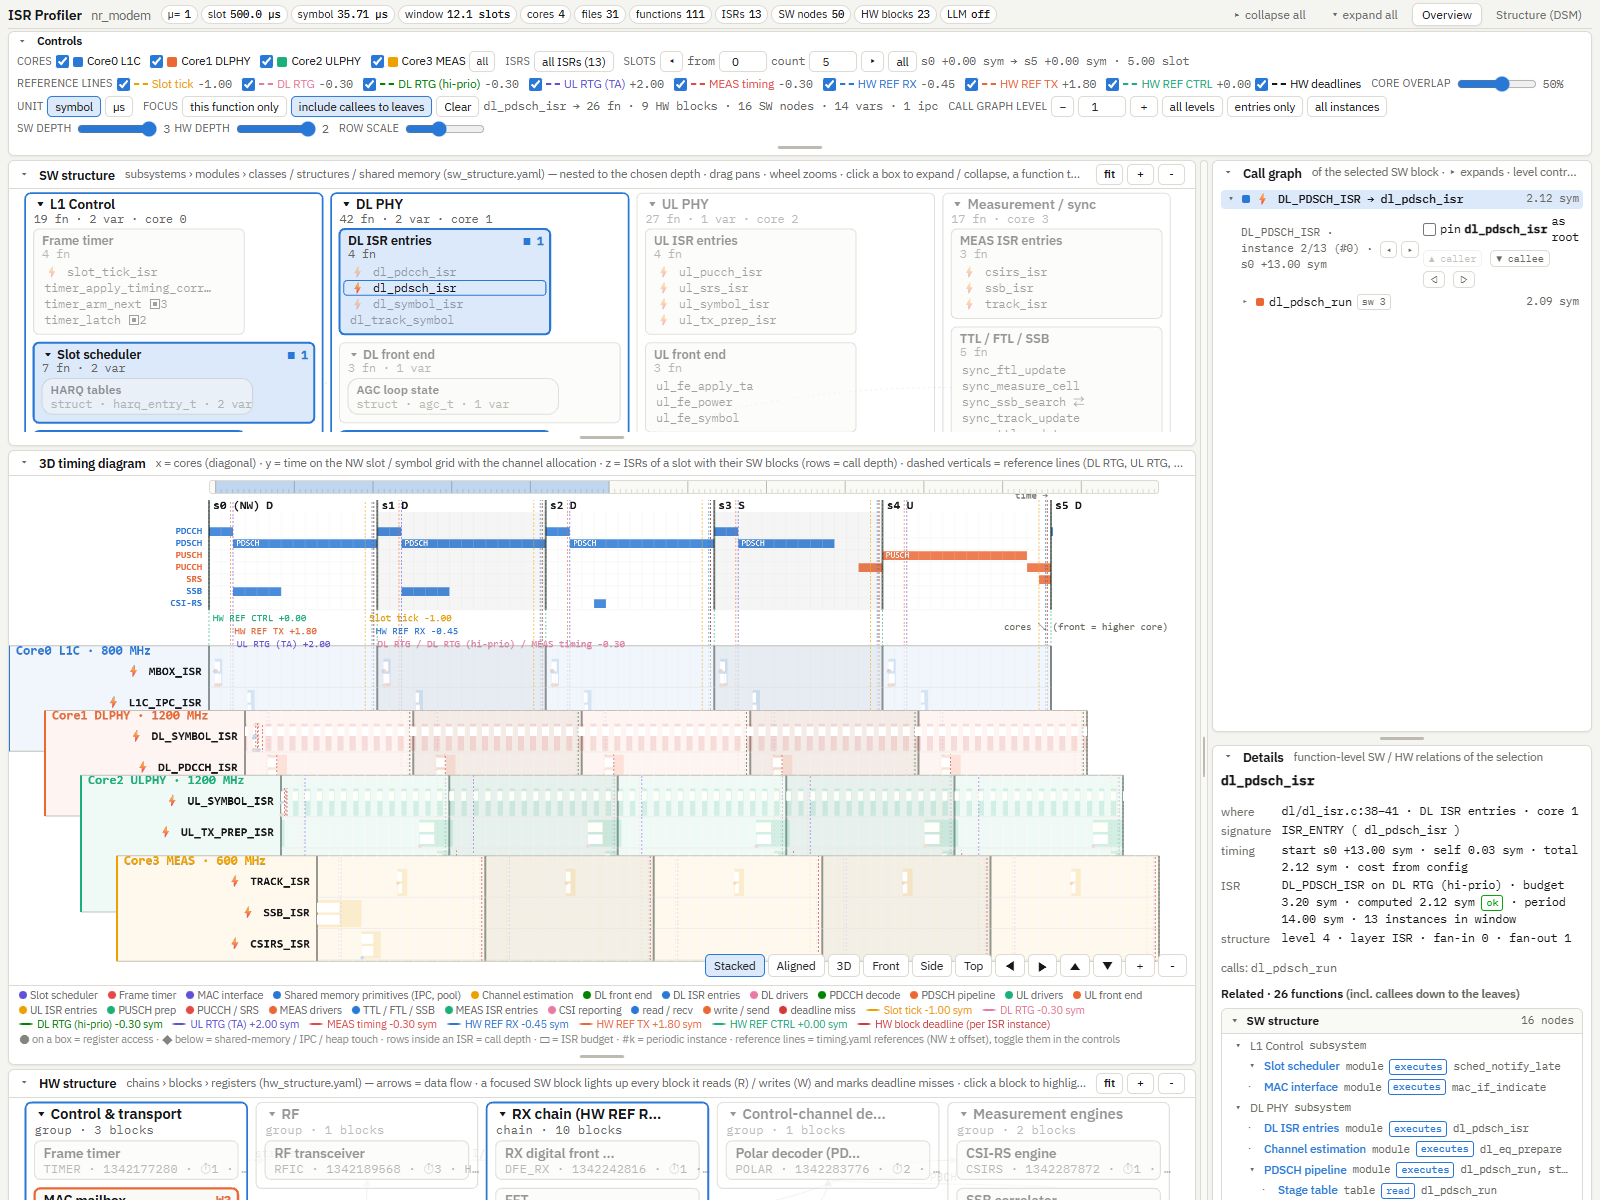
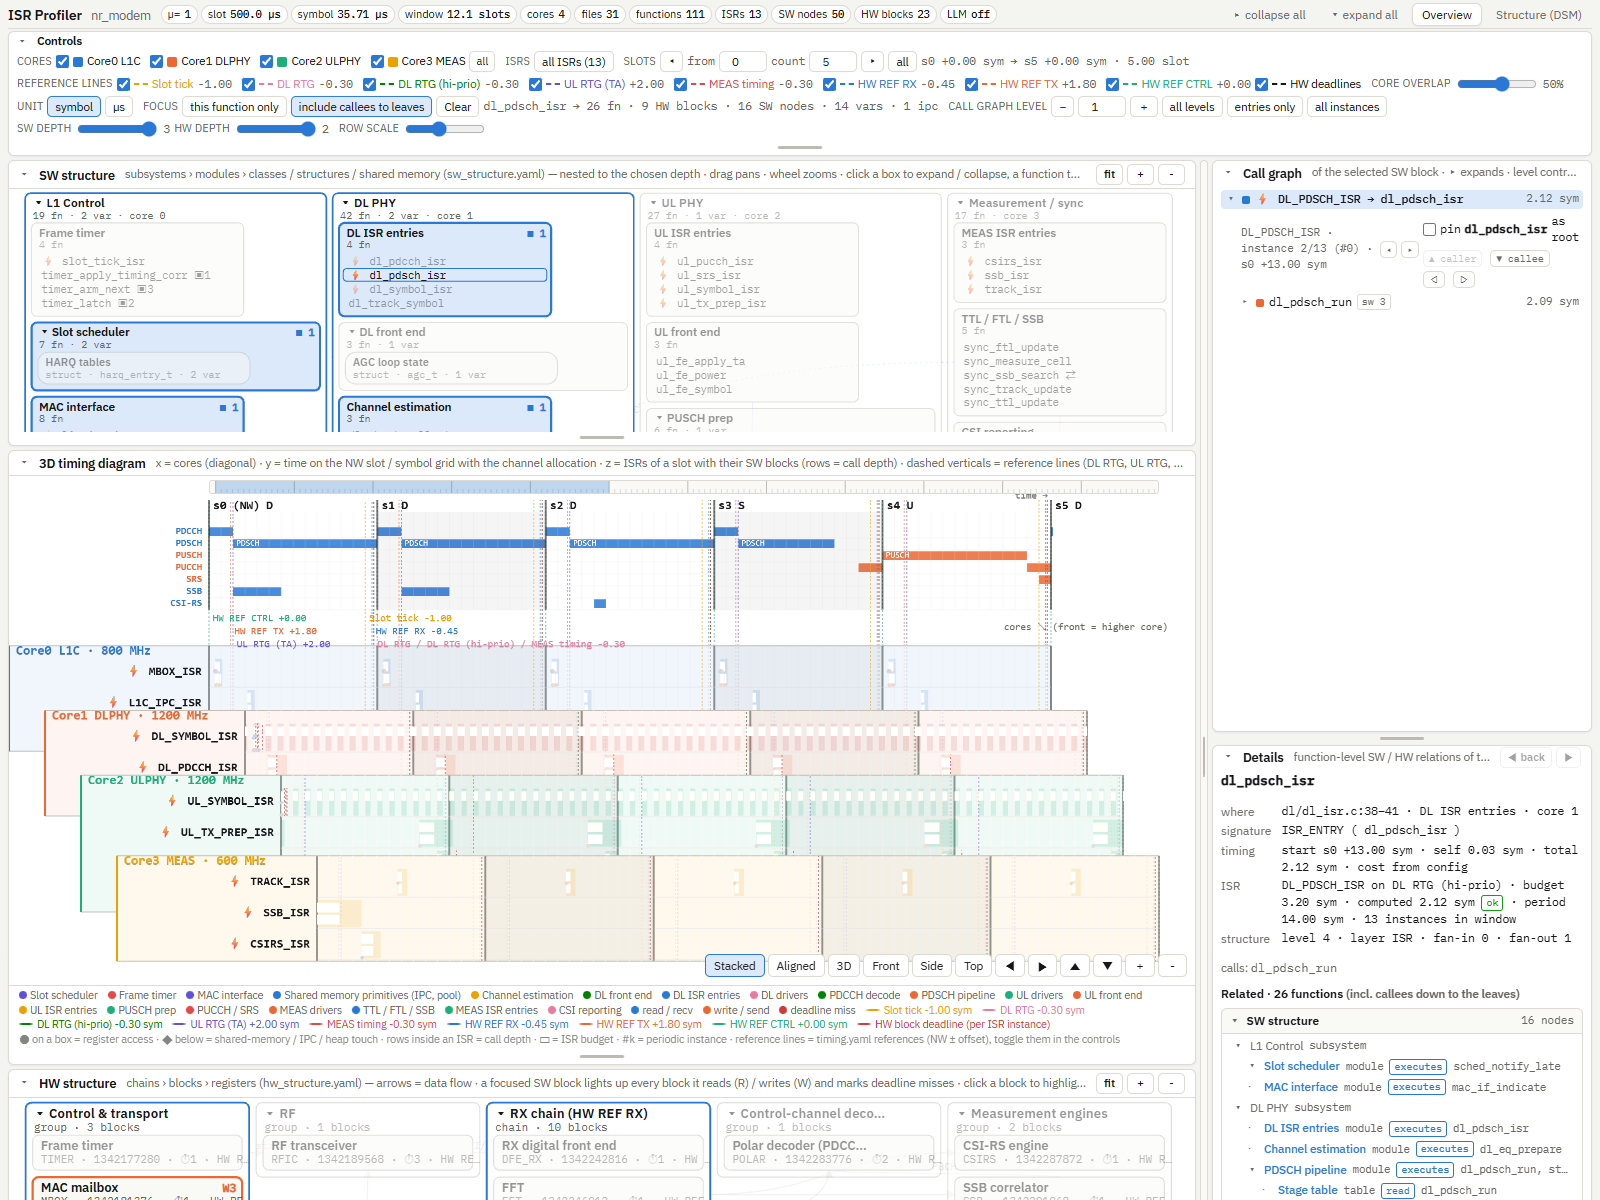
SW / HW structure diagrams: type scale matched to the timing diagram, tighter boxes

diff --git a/isrprof/templates/parts/60_diagram.js b/isrprof/templates/parts/60_diagram.js
@@ -74,18 +74,18 @@ function panZoom(host, svg, w, h) {
 function renderNested(host, spec) {
   // spec: {byId, roots, anc, depth, open, closed, cols, itemsOf, itemsDefault, kindOf, labelOf, subOf, edges:[{from,to,kind,label}], leafW, onToggle, onSelect, onItem, tipNode, tipItem, extraClass}
   const W = Math.max(host.clientWidth || 900, 320);
-  const opt = { depth: spec.depth, open: spec.open, closed: spec.closed, pageW: W - 8, cols: spec.cols || 4, leafW: spec.leafW || 190, minColW: spec.minColW || 150, leafH: 34, pad: 8, header: 26, itemsOf: spec.itemsOf, itemsDefault: spec.itemsDefault, itemH: 15 };
+  const opt = { depth: spec.depth, open: spec.open, closed: spec.closed, pageW: W - 8, cols: spec.cols || 4, leafW: spec.leafW || 190, minColW: spec.minColW || 140, leafH: 30, pad: 6, header: 22, itemsOf: spec.itemsOf, itemsDefault: spec.itemsDefault, itemH: 13 };
   const layout = nestedLayout(spec.byId, spec.roots, opt);
   const boxes = layout.boxes, out = [], items = new Map(), boxEl = new Map();
   const ordered = [...boxes.values()].sort((a, b) => a.node.depth - b.node.depth);
   for (const b of ordered) {
     const n = b.node, kind = spec.kindOf(n), cnt = spec.countOf ? spec.countOf(n) : '';
     out.push(`<g class="nd k-${esc(kind)} d${Math.min(n.depth, 2)} ${spec.extraClass ? spec.extraClass(n) : ''}" data-id="${esc(n.id)}"><rect class="bx" x="${b.x}" y="${b.y}" width="${b.w}" height="${b.h}" rx="5"/>` +
-      `<text class="ttl" x="${b.x + 8}" y="${b.y + 15}">${b.node.children.length ? (b.open ? '▾ ' : '▸ ') : ''}${esc(fitText(spec.labelOf(n), b.w - 58, n.depth === 0 ? 7.2 : 6.6))}</text>` +
-      `<text class="sub" x="${b.x + 8}" y="${b.y + 28}">${esc(fitText(spec.subOf(n, b), b.w - 14, 6.0))}</text><text class="cnt" x="${b.x + b.w - 6}" y="${b.y + 15}"></text>`);
+      `<text class="ttl" x="${b.x + 7}" y="${b.y + 13}">${b.node.children.length ? (b.open ? '▾ ' : '▸ ') : ''}${esc(fitText(spec.labelOf(n), b.w - 52, n.depth === 0 ? 6.4 : 6.1))}</text>` +
+      `<text class="sub" x="${b.x + 7}" y="${b.y + 24}">${esc(fitText(spec.subOf(n, b), b.w - 12, 5.4))}</text><text class="cnt" x="${b.x + b.w - 5}" y="${b.y + 13}"></text>`);
     b.items.forEach((it, i) => {
       const iy = b.y + opt.leafH + i * opt.itemH;
-      out.push(`<g class="it ${it.cls || ''}" data-id="${esc(it.id)}" data-node="${esc(n.id)}"><rect x="${b.x + 4}" y="${iy}" width="${b.w - 8}" height="${opt.itemH - 1}" rx="3"/><text x="${b.x + 10}" y="${iy + 11}">${esc(fitText(it.label, b.w - 48, 6.3))}</text><text class="itag" x="${b.x + b.w - 8}" y="${iy + 11}" text-anchor="end"></text></g>`);
+      out.push(`<g class="it ${it.cls || ''}" data-id="${esc(it.id)}" data-node="${esc(n.id)}"><rect x="${b.x + 4}" y="${iy}" width="${b.w - 8}" height="${opt.itemH - 1}" rx="3"/><text x="${b.x + 9}" y="${iy + 10}">${esc(fitText(it.label, b.w - 44, 5.7))}</text><text class="itag" x="${b.x + b.w - 7}" y="${iy + 10}" text-anchor="end"></text></g>`);
       items.set(it.id, { node: n.id, it });
     });
     out.push('</g>');

diff --git a/isrprof/templates/parts/00_head.html b/isrprof/templates/parts/00_head.html
@@ -132,11 +132,11 @@ table.t tr.viol td { color: var(--critical); }
 .diagram .nd.k-subsystem > rect.bx, .diagram .nd.k-chain > rect.bx, .diagram .nd.k-group > rect.bx, .diagram .nd.k-shared_memory > rect.bx { fill: var(--panel); }
 .diagram .nd.k-struct > rect.bx, .diagram .nd.k-variable > rect.bx, .diagram .nd.k-table > rect.bx, .diagram .nd.k-class > rect.bx { rx: 10; }
 .diagram .nd.implicit > rect.bx { stroke-dasharray: 4 3; }
-.diagram .nd > text.ttl { font-weight: 600; font-size: 12px; }
-.diagram .nd.d0 > text.ttl { font-size: 13px; }
-.diagram .nd.d2 > text.ttl { font-size: 11.5px; }
-.diagram .nd > text.sub { fill: var(--muted); font-size: 11px; font-family: var(--mono); }
-.diagram .nd > text.cnt { font-family: var(--mono); font-size: 11px; font-weight: 600; text-anchor: end; }
+.diagram .nd > text.ttl { font-weight: 600; font-size: 11px; }
+.diagram .nd.d0 > text.ttl { font-size: 11.5px; }
+.diagram .nd.d2 > text.ttl { font-size: 10.5px; }
+.diagram .nd > text.sub { fill: var(--muted); font-size: 9.5px; font-family: var(--mono); }
+.diagram .nd > text.cnt { font-family: var(--mono); font-size: 10px; font-weight: 600; text-anchor: end; }
 .diagram .nd.dim > rect.bx { opacity: .45; }
 .diagram .nd.dim > text { opacity: .45; }
 .diagram .nd.rel-x > rect.bx { stroke: var(--accent); stroke-width: 2; fill: var(--accent-soft); }
@@ -149,7 +149,7 @@ table.t tr.viol td { color: var(--critical); }
 .diagram .nd.shared > rect.bx { stroke: var(--warn); }
 .diagram .it rect { fill: transparent; cursor: pointer; }
 .diagram .it:hover rect { fill: var(--accent-soft); }
-.diagram .it text { font-family: var(--mono); font-size: 11px; }
+.diagram .it text { font-family: var(--mono); font-size: 10px; }
 .diagram .it.rel rect { fill: var(--accent-soft); }
 .diagram .it.rel-r text, .diagram .it.rel-w text, .diagram .it.rel-rw text { font-weight: 600; }
 .diagram .it.sel rect { fill: var(--accent-soft); stroke: var(--accent); }
@@ -164,9 +164,9 @@ table.t tr.viol td { color: var(--critical); }
 .diagram .ed.k-produces, .diagram .ed.k-writes { stroke: var(--write); }
 .diagram .ed.k-consumes, .diagram .ed.k-reads { stroke: var(--read); }
 .diagram .ed.k-dma, .diagram .ed.k-control { stroke-dasharray: 4 3; }
-.diagram .edl { font-size: 10px; font-family: var(--mono); fill: var(--muted); }
+.diagram .edl { font-size: 9px; font-family: var(--mono); fill: var(--muted); }
 .diagram .edl.dim { opacity: .2; }
-.diagram .reg { font-family: var(--mono); font-size: 10px; }
+.diagram .reg { font-family: var(--mono); font-size: 9px; }
 .diagram .reg rect { fill: var(--panel); stroke: var(--line); }
 .diagram .reg.hot rect { stroke: var(--line-strong); fill: var(--accent-soft); }
 .diagram .reg.miss rect { stroke: var(--critical); }
